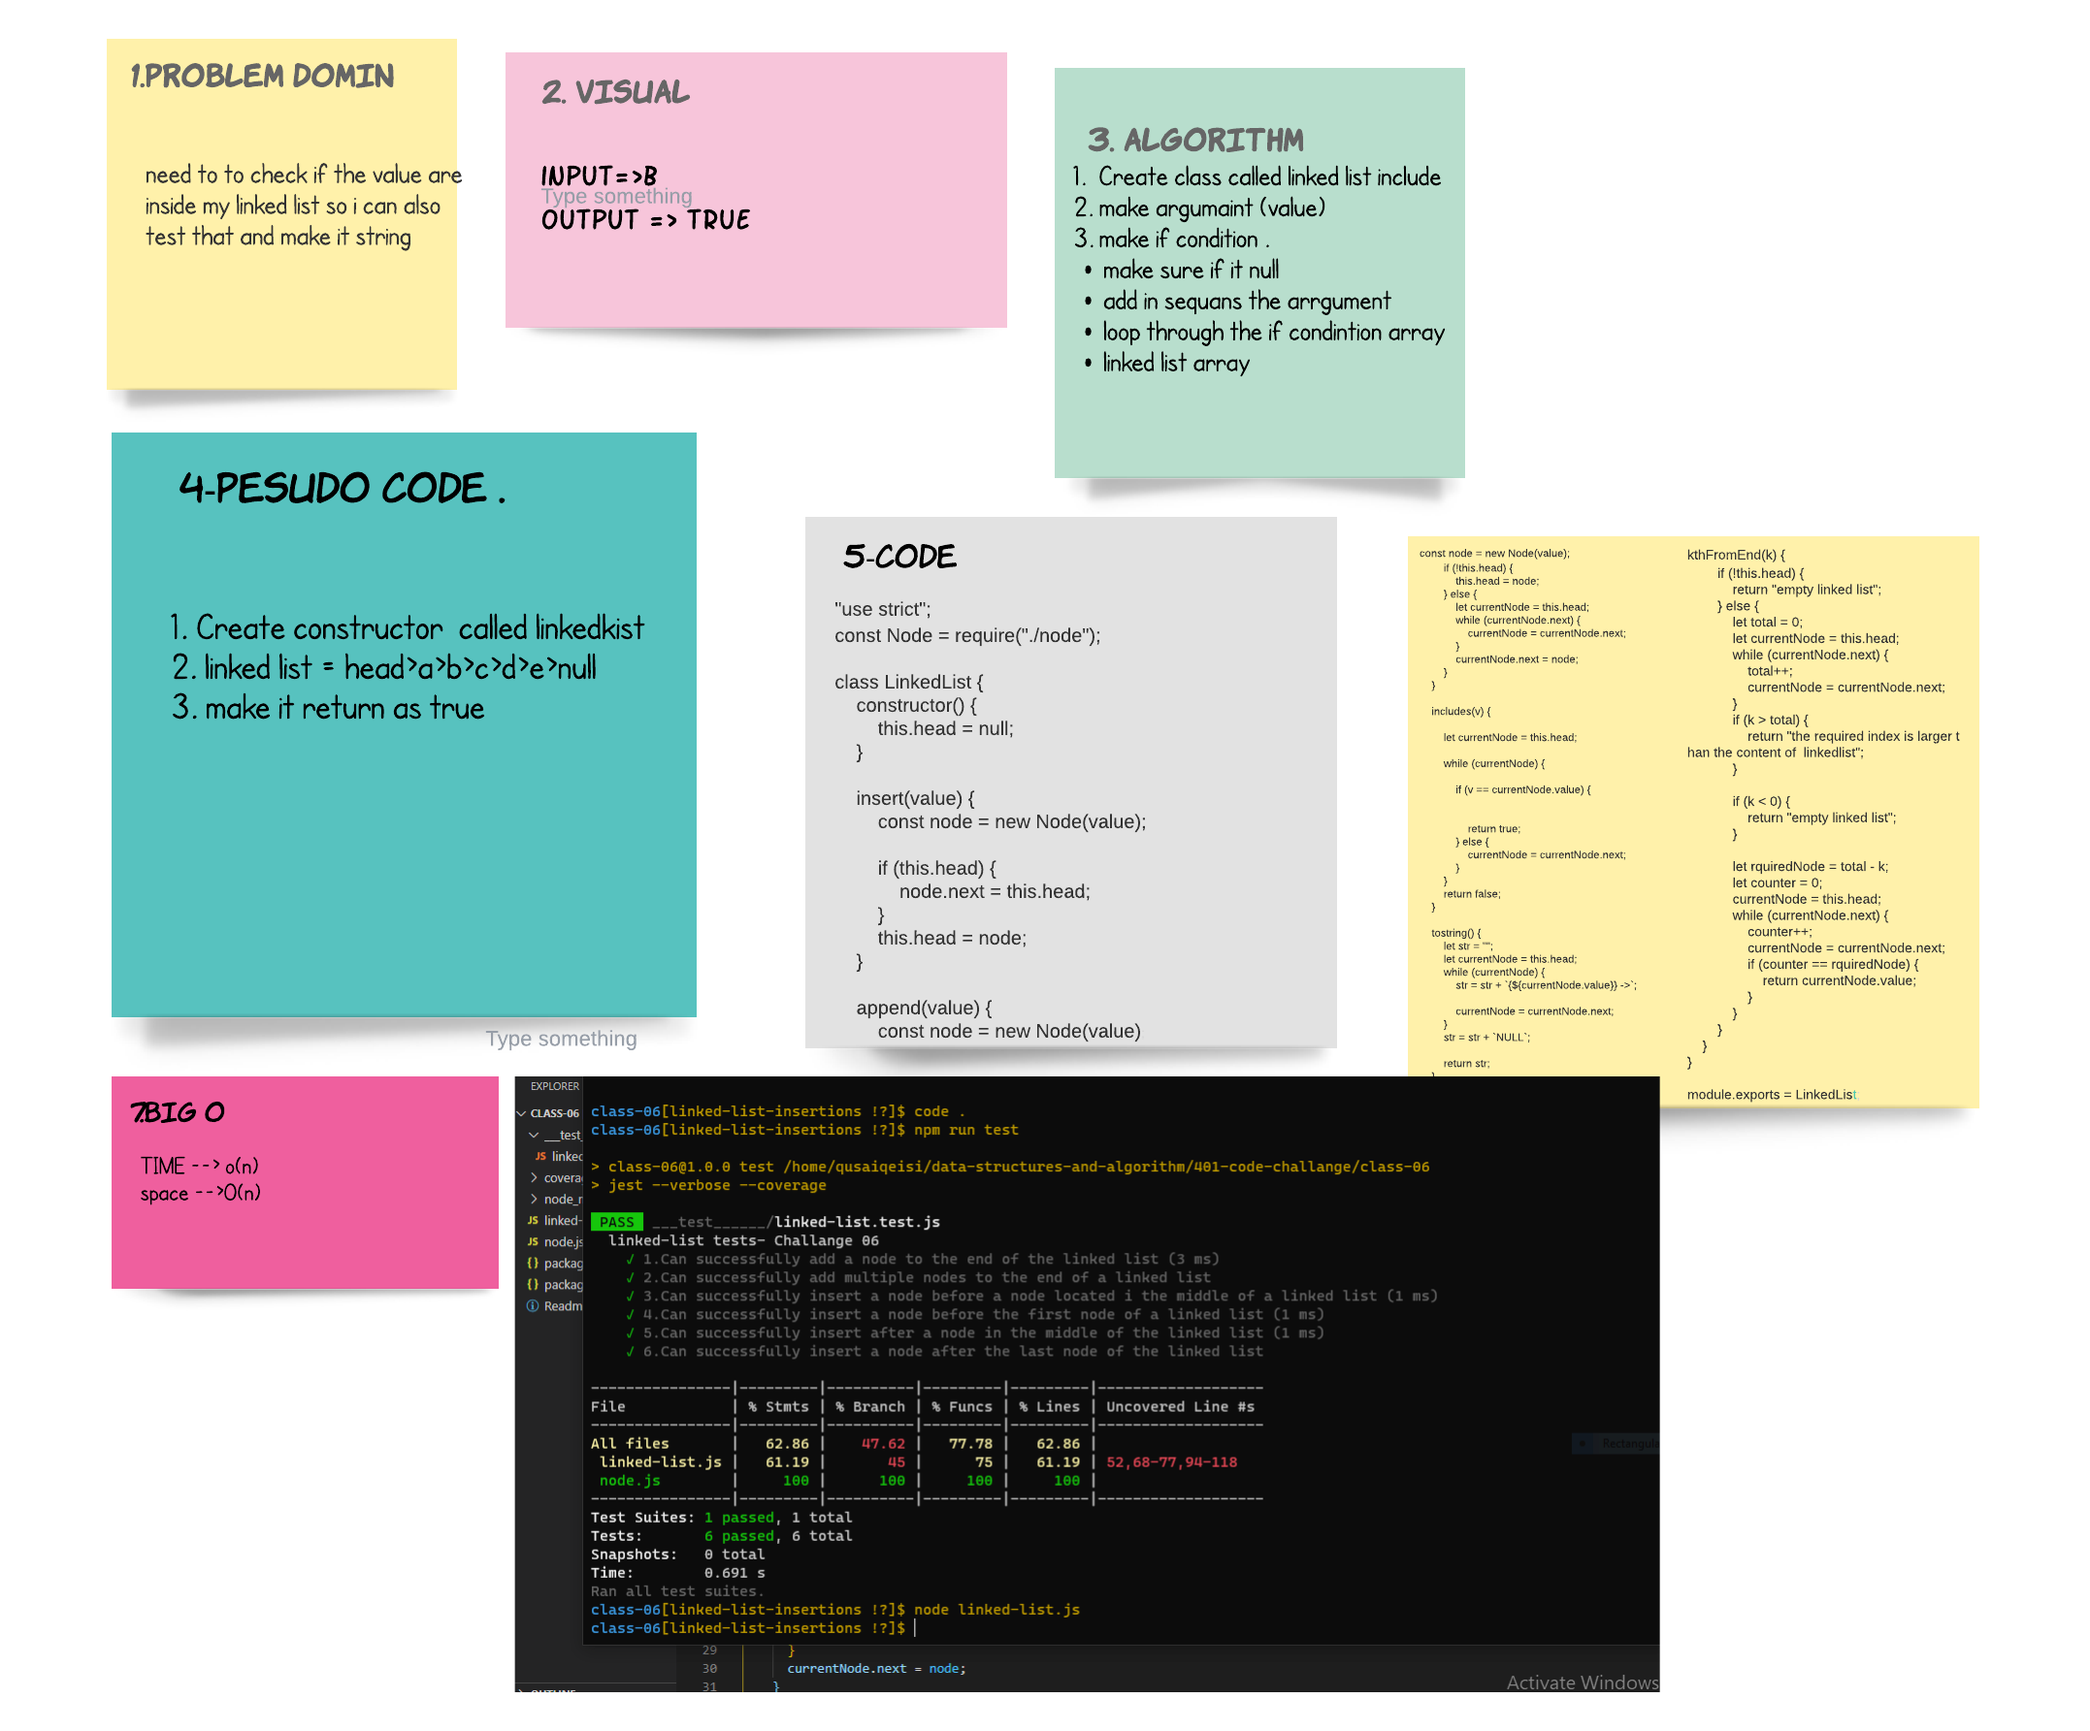
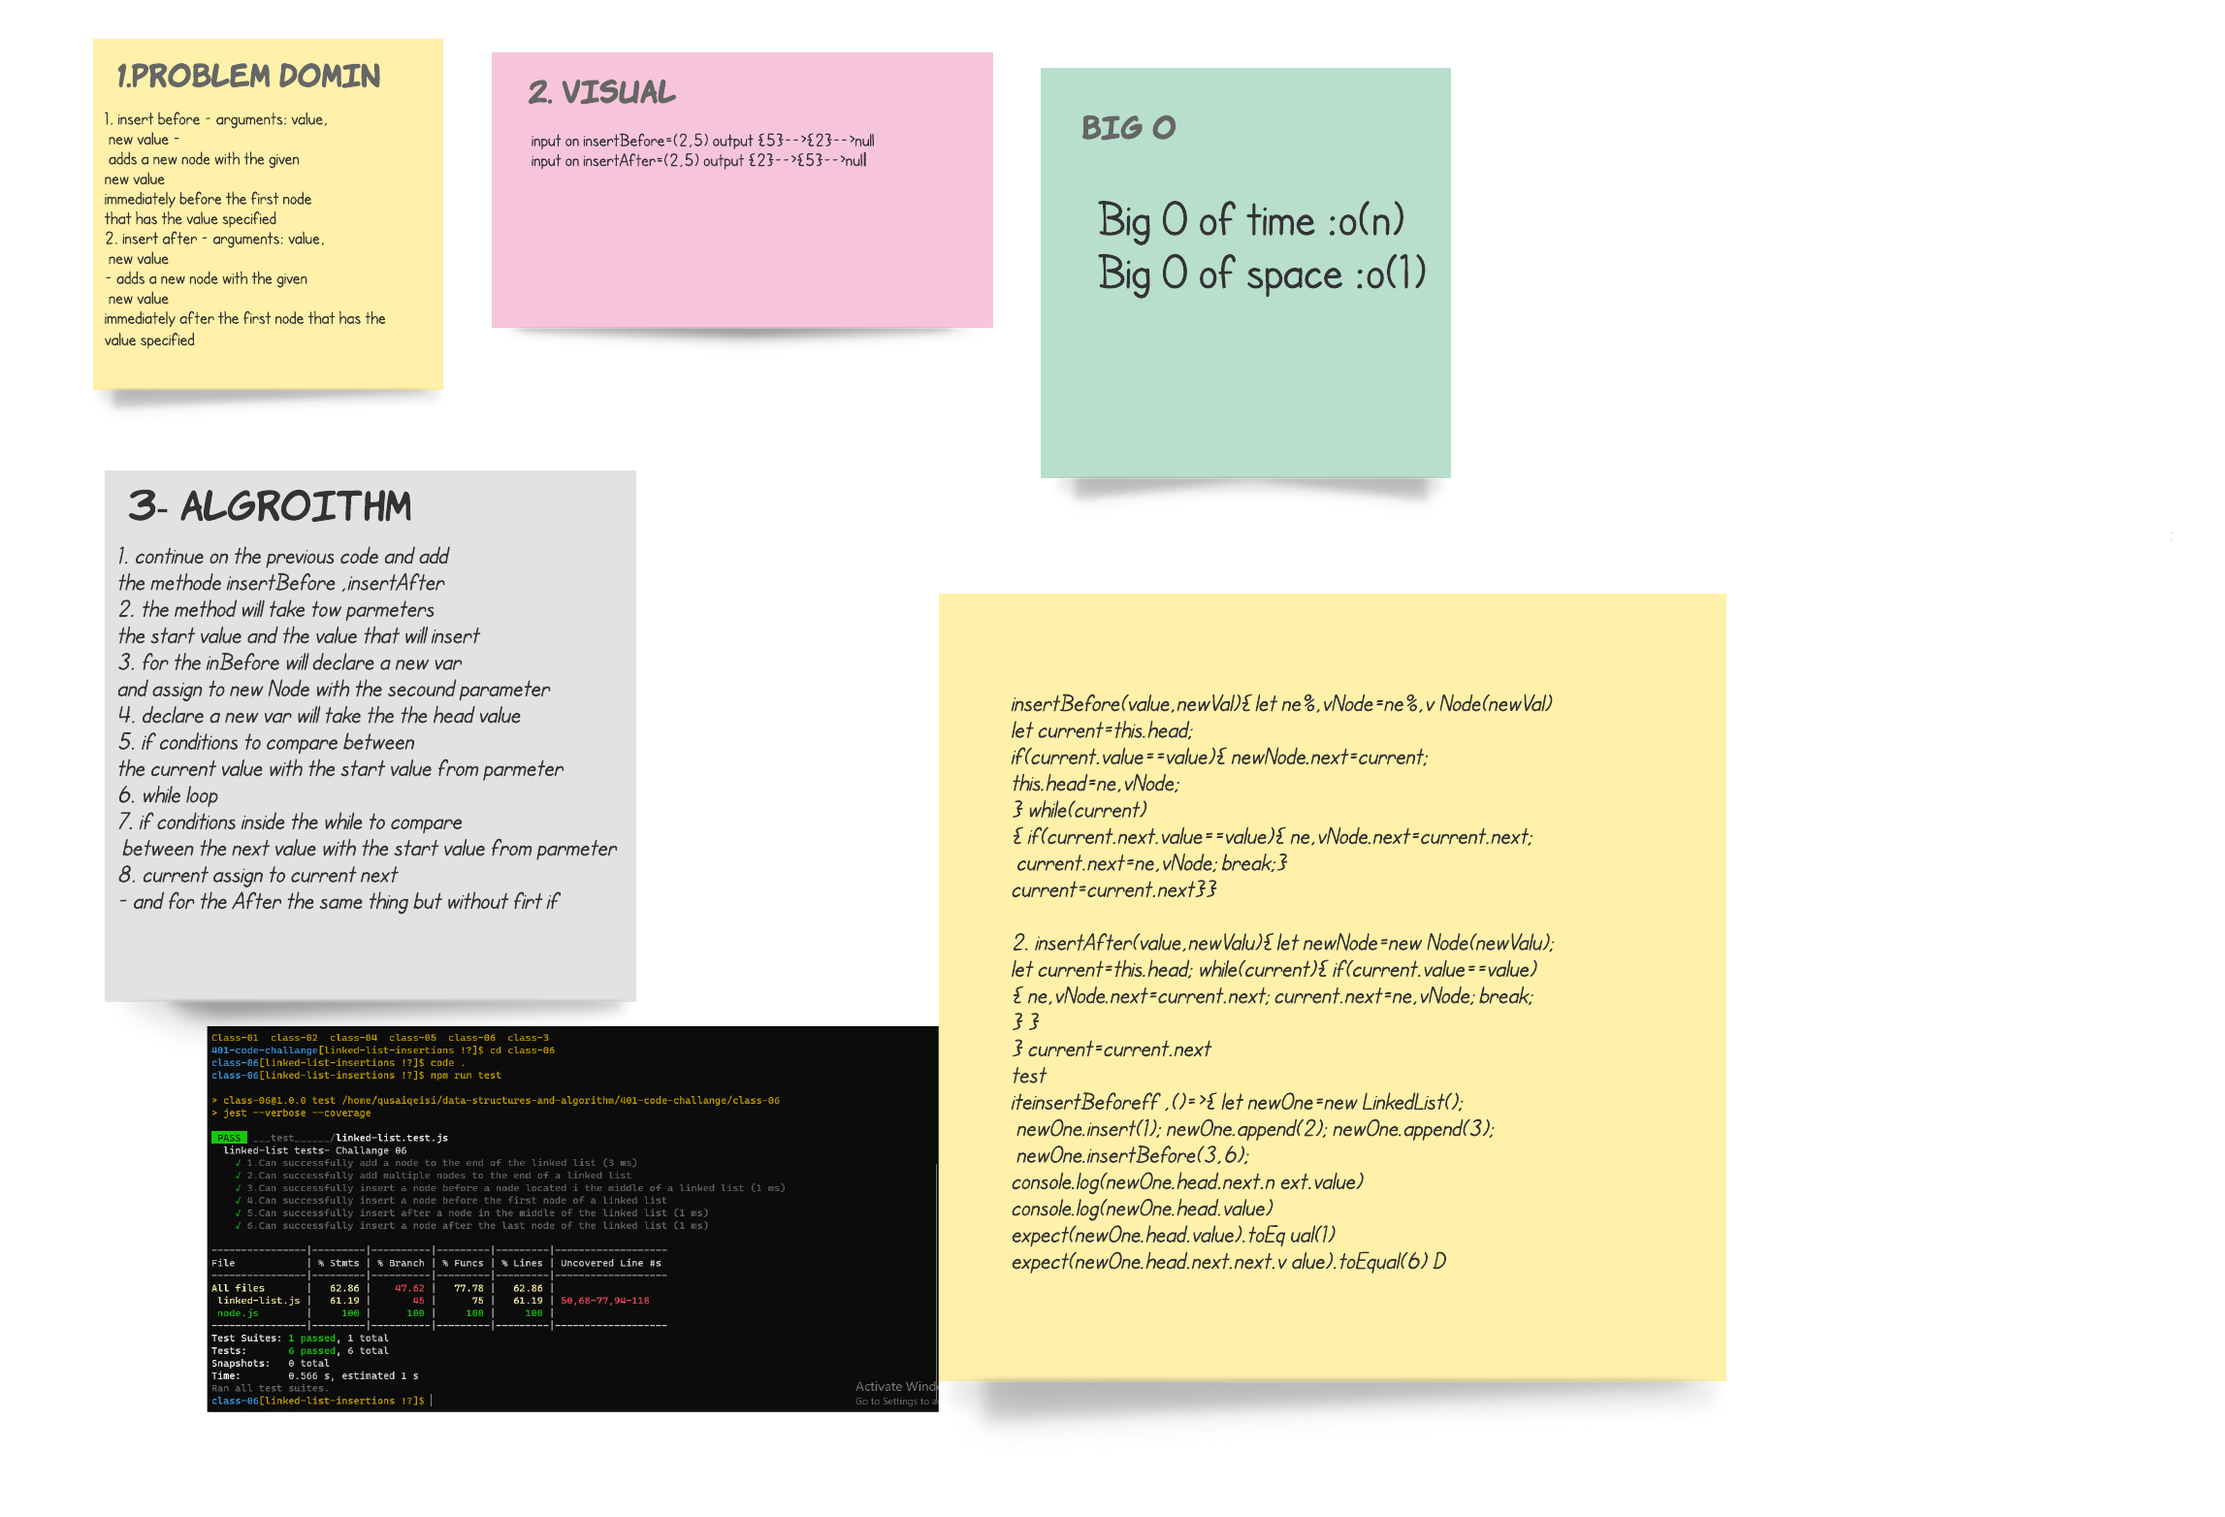
code06 solve

diff --git a/401-code-challange/class-06/coverage/lcov-report/linked-list.js.html b/401-code-challange/class-06/coverage/lcov-report/linked-list.js.html
@@ -190,16 +190,13 @@
 <span class="cline-any cline-neutral">&nbsp;</span>
 <span class="cline-any cline-neutral">&nbsp;</span>
 <span class="cline-any cline-neutral">&nbsp;</span>
+<span class="cline-any cline-neutral">&nbsp;</span>
 <span class="cline-any cline-yes">16x</span>
 <span class="cline-any cline-yes">16x</span>
 <span class="cline-any cline-yes">4x</span>
 <span class="cline-any cline-neutral">&nbsp;</span>
 <span class="cline-any cline-yes">12x</span>
 <span class="cline-any cline-yes">12x</span>
-<span class="cline-any cline-neutral">&nbsp;</span>
-<span class="cline-any cline-neutral">&nbsp;</span>
-<span class="cline-any cline-neutral">&nbsp;</span>
-<span class="cline-any cline-neutral">&nbsp;</span>
 <span class="cline-any cline-neutral">&nbsp;</span>
 <span class="cline-any cline-neutral">&nbsp;</span>
 <span class="cline-any cline-neutral">&nbsp;</span>
@@ -214,6 +211,7 @@
 <span class="cline-any cline-yes">3x</span>
 <span class="cline-any cline-neutral">&nbsp;</span>
 <span class="cline-any cline-yes">3x</span>
+<span class="cline-any cline-neutral">&nbsp;</span>
 <span class="cline-any cline-neutral">&nbsp;</span>
 <span class="cline-any cline-neutral">&nbsp;</span>
 <span class="cline-any cline-neutral">&nbsp;</span>
@@ -233,6 +231,8 @@
 <span class="cline-any cline-neutral">&nbsp;</span>
 <span class="cline-any cline-neutral">&nbsp;</span>
 <span class="cline-any cline-no">&nbsp;</span>
+<span class="cline-any cline-neutral">&nbsp;</span>
+<span class="cline-any cline-neutral">&nbsp;</span>
 <span class="cline-any cline-neutral">&nbsp;</span>
 <span class="cline-any cline-neutral">&nbsp;</span>
 <span class="cline-any cline-neutral">&nbsp;</span>
@@ -313,6 +313,7 @@ class LinkedList {
     this.head = null;
   }
 &nbsp;
+// insert value to solve 
   insert(value) {
     const node = new Node(value);
     if (!this.head) {
@@ -321,13 +322,9 @@ class LinkedList {
       node.next = this.head;
       this.head = node;
     }
-&nbsp;
-    // if (this.head) {
-    //   node.next = this.head;
-    // }
-    // this.head = node;
   }
-&nbsp;
+  
+//  append it to work 
   append(value) {
     const node = new Node(value);
     if (!this.head) {
@@ -341,6 +338,7 @@ class LinkedList {
     }
   }
 &nbsp;
+//   insert to single line 
   insertBefore(value, addValue) {
     const node = new Node(addValue);
     let currentNode = this.head;
@@ -359,6 +357,8 @@ class LinkedList {
 <span class="cstat-no" title="statement not covered" >      currentNode = currentNode.next;</span>
     }
   }
+&nbsp;
+//    insert after null 
   insertAfter(value, addValue) {
     let node = new Node(addValue);
     let currentNode = this.head;
@@ -436,7 +436,7 @@ module.exports = LinkedList;</pre></td></tr></table></pre>
             <div class='footer quiet pad2 space-top1 center small'>
                 Code coverage generated by
                 <a href="https://istanbul.js.org/" target="_blank">istanbul</a>
-                at Sun Aug 15 2021 18:37:20 GMT+0300 (Arabian Standard Time)
+                at Tue Aug 17 2021 22:37:07 GMT+0300 (Arabian Standard Time)
             </div>
         </div>
         <script src="prettify.js"></script>

diff --git a/401-code-challange/class-06/coverage/lcov-report/node.js.html b/401-code-challange/class-06/coverage/lcov-report/node.js.html
@@ -91,7 +91,7 @@ module.exports = Node;</pre></td></tr></table></pre>
             <div class='footer quiet pad2 space-top1 center small'>
                 Code coverage generated by
                 <a href="https://istanbul.js.org/" target="_blank">istanbul</a>
-                at Sun Aug 15 2021 18:37:20 GMT+0300 (Arabian Standard Time)
+                at Tue Aug 17 2021 22:37:07 GMT+0300 (Arabian Standard Time)
             </div>
         </div>
         <script src="prettify.js"></script>

diff --git a/401-code-challange/class-06/coverage/lcov-report/index.html b/401-code-challange/class-06/coverage/lcov-report/index.html
@@ -110,7 +110,7 @@
             <div class='footer quiet pad2 space-top1 center small'>
                 Code coverage generated by
                 <a href="https://istanbul.js.org/" target="_blank">istanbul</a>
-                at Sun Aug 15 2021 18:37:20 GMT+0300 (Arabian Standard Time)
+                at Tue Aug 17 2021 22:37:07 GMT+0300 (Arabian Standard Time)
             </div>
         </div>
         <script src="prettify.js"></script>
